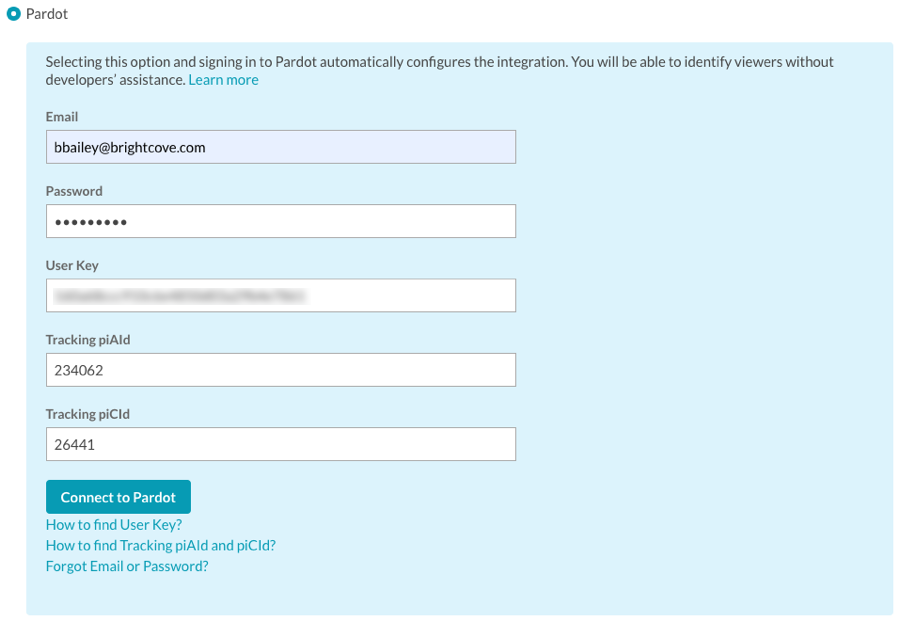
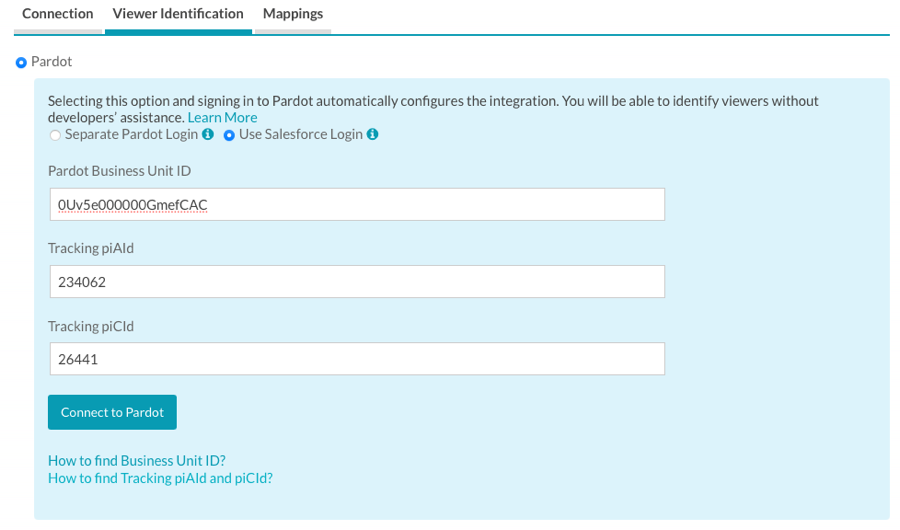
pardot updates

diff --git a/_site/integrations/salesforce/integrating-video-cloud-salesforce.html b/_site/integrations/salesforce/integrating-video-cloud-salesforce.html
@@ -486,25 +486,27 @@ function doGTranslate(lang_pair) {if(lang_pair.value)lang_pair=lang_pair.value;i
     <h2 id="pardot">Configuring a Pardot integration</h2>
     <p>Once the Brightcove Audience to Salesforce connection has been made, you can choose to use Pardot to identify viewers. This section covers the steps to use Pardot to identify viewers.</p>
     <aside class="bcls-aside bcls-aside--information language-editable">Note: Before configuring the Pardot integration, you should complete the steps outlined in the <a href="/integrations/salesforce/creating-salesforce-object-pardot.html">Creating a Custom Salesforce Object for Pardot Integration</a> topic.</aside>
-    <aside class="bcls-aside bcls-aside--information language-editable">Note: Brightcove recommends creating a dedicated Pardot user account to use when configuring the integration with Brightcove Campaign.</aside>
+    <aside class="bcls-aside bcls-aside--information language-editable">Note: As of February 15, 2021, using a Pardot login is no longer valid.</aside>
+
     <ol class="bcls-tasklist">
       <li>Click the <strong>Configure how viewers are identified</strong> link.</li>
-      <li>Enter your <strong>Email</strong> and <strong>Password</strong> you use to login to Pardot.</li>
+      <li>If you are presented with 2 login options, select <strong>Use Salesforce Login</strong>.</li>
     </ol>
-    <h3 id="pardot-api-key">Get the Pardot API key</h3>
-    <p>To get the value for the API Key field, follow these steps.</p>
+    <h3 id="pardot-api-key">Get the Pardot Business Unit ID</h3>
+    <p>To get the value for the Pardot Business Unit ID field, follow these steps.</p>
     <ol  class="bcls-tasklist">
-      <li>Login to Pardot.</li>
-      <li> Click the gear icon (<img class="bcls-image--no-border" alt="" src="/assets/images/integrations/salesforce/pardot-gear-icon.png" />) and then <strong>Settings</strong>.</li>
-      <li> Click the <strong>My Profile</strong> link at the top of the page.</li>
-      <li> Copy the value in the <strong>API User Key</strong> field and paste it into the <strong>User Key</strong> field.</li>
+      <li>Login to your Salesforce account.</li>
+      <li> Click the gear icon (<img class="bcls-image--no-border" alt="" src="/assets/images/integrations/salesforce/pardot-gear-icon.png" />) and then <strong>Setup</strong></li>
+      <li>In the left navigation, in the <strong>Quick Find</strong> box, search for <strong>Pardot</strong>, then click <strong>Pardot Account Setup</strong>.</li>
+      <li> Locate the <strong> Business Unit ID</strong> field. Enter the value into the <strong>Pardot Business Unit ID</strong> field in Audience.</li>
     </ol>
     <h3 id="tracking-ids">Get the tracking IDs</h3>
     <p>To get the value for the <strong>Tracking piAld</strong> and <strong>Tracking piCld</strong> fields, follow these steps.</p>
     <ol class="bcls-tasklist">
-      <li>In the left navigation, click the <strong>Marketing</strong> icon and then click <strong>Campaigns</strong>.</li>
-      <li> Click on a Campaign Name (or add a campaign if there are no campaigns).
-        <aside class="bcls-aside bcls-aside--information">Note: It doesn’t matter which campaign you select, Brightcove Campaign needs both values to get the cookie to identify the viewer.</aside>
+      <li>Use the left navigation to open the <strong>Marketing</strong> page.</li>
+      <li>Click <strong>Campaigns</strong> on the top navigation.</li>
+      <li> Click on a Campaign Name (or click <strong>New</strong> and create a campaign if there are no campaigns).
+<aside class="bcls-aside bcls-aside--information">Note: It doesn’t matter which campaign you select, Brightcove Audience needs both values to get the cookie to identify the viewer.</aside>
       </li>
       <li> Click <strong>View Tracking Code</strong>. The <strong>piAId</strong> and <strong>piCId</strong> values will be displayed.
         <figure class="bcls-figure"><img class="bcls-image--no-border" alt="" src="/assets/images/integrations/salesforce/pardot-tracking-code.png" /></figure>

diff --git a/integrations/salesforce/integrating-video-cloud-salesforce.html b/integrations/salesforce/integrating-video-cloud-salesforce.html
@@ -93,25 +93,27 @@ grandparent: Integrations
     <h2 id="pardot">Configuring a Pardot integration</h2>
     <p>Once the Brightcove Audience to Salesforce connection has been made, you can choose to use Pardot to identify viewers. This section covers the steps to use Pardot to identify viewers.</p>
     <aside class="bcls-aside bcls-aside--information language-editable">Note: Before configuring the Pardot integration, you should complete the steps outlined in the <a href="/integrations/salesforce/creating-salesforce-object-pardot.html">Creating a Custom Salesforce Object for Pardot Integration</a> topic.</aside>
-    <aside class="bcls-aside bcls-aside--information language-editable">Note: Brightcove recommends creating a dedicated Pardot user account to use when configuring the integration with Brightcove Campaign.</aside>
+    <aside class="bcls-aside bcls-aside--information language-editable">Note: As of February 15, 2021, using a Pardot login is no longer valid.</aside>
+
     <ol class="bcls-tasklist">
       <li>Click the <strong>Configure how viewers are identified</strong> link.</li>
-      <li>Enter your <strong>Email</strong> and <strong>Password</strong> you use to login to Pardot.</li>
+      <li>If you are presented with 2 login options, select <strong>Use Salesforce Login</strong>.</li>
     </ol>
-    <h3 id="pardot-api-key">Get the Pardot API key</h3>
-    <p>To get the value for the API Key field, follow these steps.</p>
+    <h3 id="pardot-api-key">Get the Pardot Business Unit ID</h3>
+    <p>To get the value for the Pardot Business Unit ID field, follow these steps.</p>
     <ol  class="bcls-tasklist">
-      <li>Login to Pardot.</li>
-      <li> Click the gear icon (<img class="bcls-image--no-border" alt="" src="/assets/images/integrations/salesforce/pardot-gear-icon.png" />) and then <strong>Settings</strong>.</li>
-      <li> Click the <strong>My Profile</strong> link at the top of the page.</li>
-      <li> Copy the value in the <strong>API User Key</strong> field and paste it into the <strong>User Key</strong> field.</li>
+      <li>Login to your Salesforce account.</li>
+      <li> Click the gear icon (<img class="bcls-image--no-border" alt="" src="/assets/images/integrations/salesforce/pardot-gear-icon.png" />) and then <strong>Setup</strong></li>
+      <li>In the left navigation, in the <strong>Quick Find</strong> box, search for <strong>Pardot</strong>, then click <strong>Pardot Account Setup</strong>.</li>
+      <li> Locate the <strong> Business Unit ID</strong> field. Enter the value into the <strong>Pardot Business Unit ID</strong> field in Audience.</li>
     </ol>
     <h3 id="tracking-ids">Get the tracking IDs</h3>
     <p>To get the value for the <strong>Tracking piAld</strong> and <strong>Tracking piCld</strong> fields, follow these steps.</p>
     <ol class="bcls-tasklist">
-      <li>In the left navigation, click the <strong>Marketing</strong> icon and then click <strong>Campaigns</strong>.</li>
-      <li> Click on a Campaign Name (or add a campaign if there are no campaigns).
-        <aside class="bcls-aside bcls-aside--information">Note: It doesn’t matter which campaign you select, Brightcove Campaign needs both values to get the cookie to identify the viewer.</aside>
+      <li>Use the left navigation to open the <strong>Marketing</strong> page.</li>
+      <li>Click <strong>Campaigns</strong> on the top navigation.</li>
+      <li> Click on a Campaign Name (or click <strong>New</strong> and create a campaign if there are no campaigns).
+<aside class="bcls-aside bcls-aside--information">Note: It doesn’t matter which campaign you select, Brightcove Audience needs both values to get the cookie to identify the viewer.</aside>
       </li>
       <li> Click <strong>View Tracking Code</strong>. The <strong>piAId</strong> and <strong>piCId</strong> values will be displayed.
         <figure class="bcls-figure"><img class="bcls-image--no-border" alt="" src="/assets/images/integrations/salesforce/pardot-tracking-code.png" /></figure>

diff --git a/_site/support/opening-case-with-brightcove-support.html b/_site/support/opening-case-with-brightcove-support.html
@@ -529,7 +529,7 @@ function doGTranslate(lang_pair) {if(lang_pair.value)lang_pair=lang_pair.value;i
 
 <hr>
 <div class="last-updated">
-  Page last updated on 01 Apr 2021
+  Page last updated on 24 May 2021
 </div>
 
 
